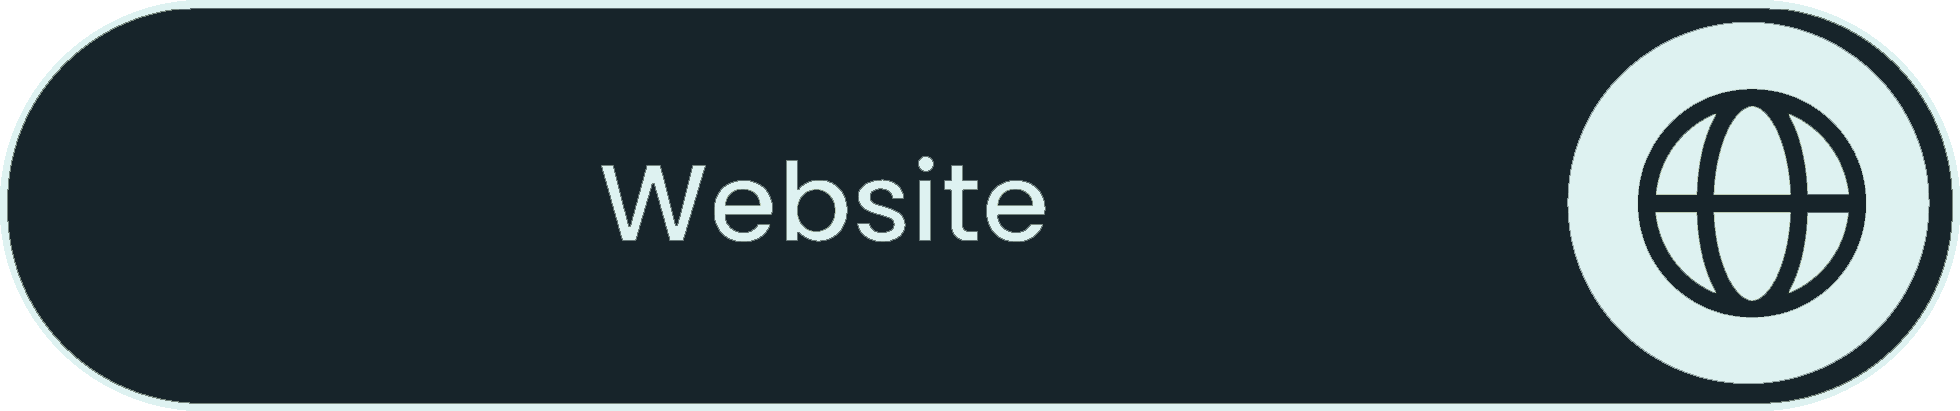
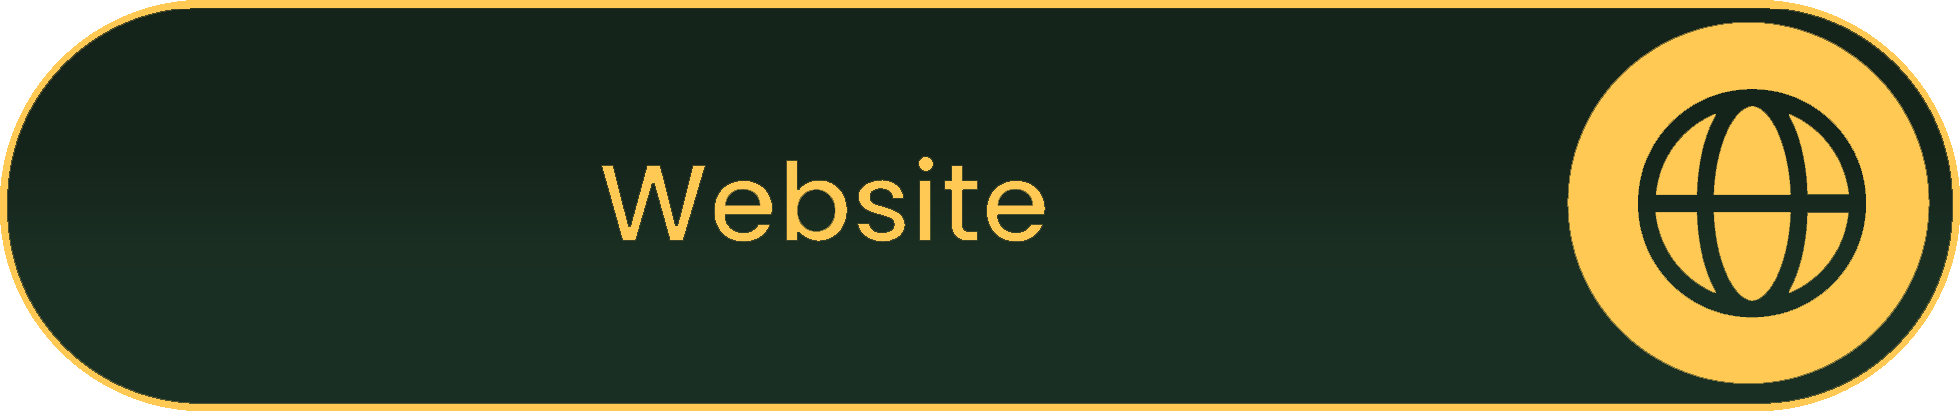
third

diff --git a/style.css b/style.css
@@ -22,7 +22,7 @@
     }
 
     .nav {
-        background-color: #17242a;
+        background-color: #12221b;
         width: 100%;
         height: 70px;
         margin: auto;
@@ -151,7 +151,7 @@
     font-size: 28px;
     padding-top: 25px;
     margin-bottom: 0%;
-    color: #17242a;
+    color: #12221b;
     font-weight: 600;
     font-family: "Montserrat", sans-serif;
 }
@@ -176,7 +176,7 @@
         font-size: 13.5pt;
         font-family: "Montserrat", sans-serif;
         margin-top: -6px;
-        color: #17242a;
+        color: #12221b;
         font-weight: 600;
         animation: blinker 2s linear infinite;
         text-decoration: none;
@@ -257,7 +257,7 @@ footer{
 
 
     .nav {
-        background-color: #17242a;
+        background-color: #12221b;
         width: 100%;
         height: 75px;
         margin: auto;
@@ -306,12 +306,13 @@ footer{
         
     }
     .welcome2{
-        color: #ffffff;
+        color: #b98a23;
         text-align: center;
-        font-size: 13.5pt;
-       font-weight: 250;
+        font-size: 14pt;
+       font-weight: 300;
        margin-top: -12px;
         font-family: "Raleway", sans-serif;
+        letter-spacing: 1px;
         
     }
 
@@ -321,7 +322,7 @@ footer{
             font-family: "Montserrat", sans-serif;
             margin-top: -6px;
             color: #ffffff;
-            font-weight: 600;
+            font-weight: 500;
             animation: blinker 2s linear infinite;
             text-decoration: none;
             letter-spacing: 2px;
@@ -351,7 +352,7 @@ footer{
 
 
     .secondnav{
-        background-color: #17242a;
+        background-color: #12221b;
         width: 100%;
         height: 700px;
         border-radius: 60px 60px 0px 0px;
@@ -382,7 +383,7 @@ footer{
         align-items: center;
         flex-wrap: wrap;
         margin-top: 10px;
-        background-color: #17242a;
+        background-color: #12221b;
         height: 300px;
         
     }
